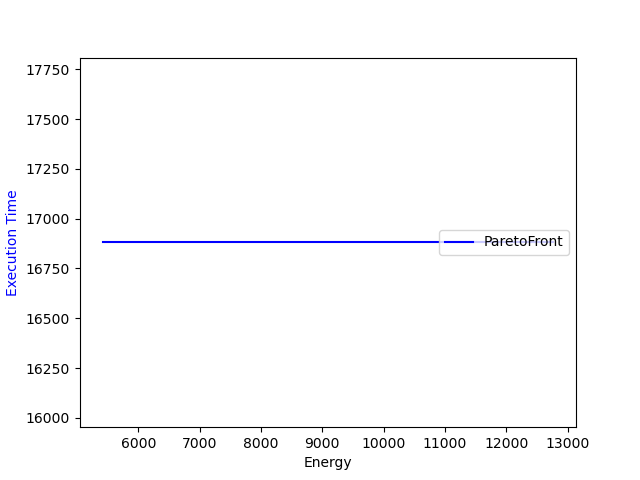
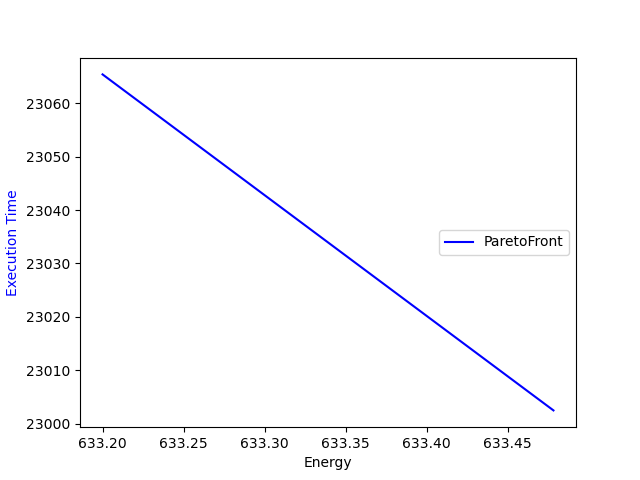
Messaging updated

diff --git a/with_dpll/complete.py b/with_dpll/complete.py
@@ -59,14 +59,16 @@ def process_block(block,tg,core):
 
 
     elif core in block[0] or "PROC" in block[0] or "CORE" in block[0]:
-        core_name = None
-        i = 0
-        core_name= block[0].strip('@').strip('{').replace(" ","")
-        #print(core_name)
-        scenario.all_tables[core_name]=Table(core_name,block[1].strip('#'),block[2].strip('#'),block[4].strip('#'))
-        for i in range(5, len(block)):
-            if not block[i].startswith('#'):
-                scenario.all_tables[core_name].add_row(block[i])
+        #  or " 6 " in block[0] or " 14 " in block[0]
+        if " 0 " in block[0] or " 3 " in block[0] :
+            core_name = None
+            i = 0
+            core_name= block[0].strip('@').strip('{').replace(" ","")
+            print(core_name)
+            scenario.all_tables[core_name]=Table(core_name,block[1].strip('#'),block[2].strip('#'),block[4].strip('#'))
+            for i in range(5, len(block)):
+                if not block[i].startswith('#'):
+                    scenario.all_tables[core_name].add_row(block[i])
     elif "HYPERPERIOD" in block[0]:
         scenario.hyperperiod= float(block[0].strip('@HYPERPERIOD '))
     elif "COMMUN_QUANT" in block[0]:
@@ -113,7 +115,7 @@ def populate_task_params():
                         #adding the PE to the pe_list of each task
                         scenario.graphs[graph].tasks[task].pe_list.append(table)
                         #adding the WCET on the PE for each task
-                        scenario.graphs[graph].tasks[task].wcet[table]=float(scenario.tables[table].values[type_of_task][3])*(1e5)
+                        scenario.graphs[graph].tasks[task].wcet[table]=float(scenario.tables[table].values[type_of_task][3])*(1e6)
                         #adding the task_power on the PE to the task arc_details
                         scenario.graphs[graph].tasks[task].power[table]=float(scenario.tables[table].values[type_of_task][6])
                         #adding code bits to the task details
@@ -129,24 +131,43 @@ def populate_task_params():
 
 def generate_noc(length,breadth):
     global scenario
-    # for temp in scenario.all_tables:
-    #     scenario.tables[temp]=scenario.all_tables[temp]
-    # for table in scenario.all_tables:
-    print("NOC Assignment is as follows\n")
-    for i in range(length):
-        l=[]
-        to_print=""
-        for j in range(breadth):
-            name=f"PE_{i}_{j}"
-            temp=random.sample(scenario.all_tables.keys(),1)
-            scenario.tables[name]=scenario.all_tables[temp[0]]
-            scenario.tables[name].name=temp[0]
-            to_print+=f"|{name} type = {temp[0]}|"
-            l.append(temp[0])
-        print(to_print)
-        scenario.NOC.append(l)
-    print("____________________________________________")
-
+    # Random Assignment of PEs
+    # print("NOC Assignment is as follows\n")
+    # for i in range(length):
+    #     l=[]
+    #     to_print=""
+    #     for j in range(breadth):
+    #         name=f"PE_{i}_{j}"
+    #         temp=random.sample(scenario.all_tables.keys(),1)
+    #         scenario.tables[name]=scenario.all_tables[temp[0]]
+    #         scenario.tables[name].name=temp[0]
+    #         to_print+=f"|{name} type = {temp[0]}|"
+    #         l.append(temp[0])
+    #     print(to_print)
+    #     scenario.NOC.append(l)
+    # print("____________________________________________")
+    isAssigned=False
+    i=0
+    j=0
+    while(isAssigned==False):
+        for core in scenario.all_tables:
+            if(i<length and j<breadth):
+                name=f"PE_{i}_{j}"
+                scenario.tables[name]=scenario.all_tables[core]
+                scenario.tables[name].name=core
+                print(core,"is assigned to",name)
+                i+=1
+            elif(j<(breadth-1)):
+                j+=1
+                i=0
+                name=f"PE_{i}_{j}"
+                scenario.tables[name]=scenario.all_tables[core]
+                scenario.tables[name].name=core
+                print(core,"is assigned to",name)
+                i+=1
+            else:
+                isAssigned=True
+                break
 
 def gen_comp_pb(con_graph,graph):
     global scenario
@@ -1348,7 +1369,13 @@ def evalParams(individual):
                 message_time=0.0
                 if cluster_to!=cluster:
                     mapped_to=individual.task_cluster[cluster_to].mapped_to
-                    message_list[m]=message_time
+                    tmp1=mapped.split("_")
+                    tmp2=mapped_to.split("_")
+                    x1=abs(int(tmp1[1])-int(tmp2[1]))
+                    y1=abs(int(tmp1[2])-int(tmp2[2]))
+                    hops=x1+y1
+                    message_time=hops*(scenario.graphs[graph].arcs[m].quant/80)+(hops-1)*(0.002)
+                    message_list[m]=hops
                 if task_start[task_to]<(task_start[task]+(scenario.graphs[graph].tasks[task].wcet[mapped]*dvfs_level)+message_time):
                     task_start[task_to]=(task_start[task]+(scenario.graphs[graph].tasks[task].wcet[mapped]*dvfs_level)+message_time)
 
@@ -1367,22 +1394,26 @@ def evalParams(individual):
             wcet=scenario.graphs[graph].tasks[task].wcet[mapped]
             power=scenario.graphs[graph].tasks[task].power[mapped]
             energy+=(wcet*power*dvfs_level*dvfs_level)
+    for m in message_list:
+        energy+=(message_list[m]*(0.07))
 
-    inc=0
-    print("\nEVALUATION FOR",graph,"\n")
-    for cluster in individual.task_cluster:
-        inc+=1
-        mapped=individual.task_cluster[cluster].mapped_to
-        print("Cluster",inc,"is Mapped to PE",mapped)
-        if scenario.dvfs>1:
-            print("DVFS Level is", (individual.dvfs_level[cluster]))
-        for task in individual.task_cluster[cluster].tasks:
-            print("------>",task)
-            print("start time",task_start[task])
-            print("end time",task_end[task])
-        print("----------------------------------")
-    print("The total execution time is",max_time,)
-    print("The total energy is",energy,"\n")
+    # inc=0
+    # print("\nEVALUATION FOR",graph,"\n")
+    # for cluster in individual.task_cluster:
+    #     inc+=1
+    #     mapped=individual.task_cluster[cluster].mapped_to
+    #     print("Cluster",inc,"is Mapped to PE",mapped)
+    #     if scenario.dvfs>1:
+    #         print("DVFS Level is", (individual.dvfs_level[cluster]))
+    #     for task in individual.task_cluster[cluster].tasks:
+    #         print("------>",task)
+    #         print("start time",task_start[task])
+    #         print("end time",task_end[task])
+    #     print("----------------------------------")
+    for m in message_list:
+        print(m,"has hop distance",message_list[m])
+    # print("The total execution time is",max_time,)
+    # print("The total energy is",energy,"\n")
     return (energy,max_time,)
 
 def matefunc(ind1,ind2):
@@ -1430,7 +1461,7 @@ toolbox.register("mate", matefunc)
 # flip each attribute/gene of 0.05
 toolbox.register("mutate",mutatefunc, indpb=0.05)
 #fittest of the individuals is selected for breeding..
-toolbox.register("select", tools.selNSGA2)
+toolbox.register("select", tools.selTournament)
 
 #intialising the statistics functions
 
@@ -1441,6 +1472,7 @@ stats.register("min", numpy.min, axis=0)
 stats.register("max", numpy.max, axis=0)
 
 def main():
+    total_start_time=time.time()
     parser = argparse.ArgumentParser()
     parser.add_argument("input_tgff", help="*.tgff file to parse")
     parser.add_argument("--tg", help="*name of task_graph",default="TASK_GRAPH")
@@ -1461,19 +1493,21 @@ def main():
     assign_priorities()
     populate_message_params()
     #generating the NOC
-    assignment_feasible=False
-    counter=0
-    while(assignment_feasible==False and counter<100):
-        generate_noc(2,2)
-        assignment_feasible=populate_task_params()
-        if(assignment_feasible==False):
-            print("Reassigning NOC")
-        counter+=1
-    if(assignment_feasible==False):
-        print("NOC needs to be more PE")
-        print("Tasks possibly cannot be scheduled")
-        print("!!!!!")
-        return
+    # assignment_feasible=False
+    # counter=0
+    # while(assignment_feasible==False and counter<100):
+    #     generate_noc(2,2)
+    #     assignment_feasible=populate_task_params()
+    #     if(assignment_feasible==False):
+    #         print("Reassigning NOC")
+    #     counter+=1
+    # if(assignment_feasible==False):
+    #     print("NOC needs to be more PE")
+    #     print("Tasks possibly cannot be scheduled")
+    #     print("!!!!!")
+    #     return
+    generate_noc(2,2)
+    populate_task_params()
     if args.dvfs_num_levels!=None:
         scenario.dvfs=args.dvfs_num_levels
     else:
@@ -1501,12 +1535,12 @@ def main():
         pop=None
         print(f"Generating Population for {graph}")
         start_time=time.time()
-        pop = toolbox.population(graph_name=graph,pop_size=10)
+        pop = toolbox.population(graph_name=graph,pop_size=100)
         # CXPB  is the probability with which two individuals
         #       are crossed
         #
         # MUTPB is the probability for mutating an individual
-        CXPB, MUTPB = 0.5, 0.2
+        CXPB, MUTPB = 0.2, 0.05
 
         print("Start of evolution", graph)
         # Evaluate the entire population
@@ -1522,16 +1556,16 @@ def main():
         #initialising the Logbook
         logbook = tools.Logbook()
         #initialising the ParetoFront
-        pf= tools.HallOfFame(maxsize=20)
+        pf= tools.HallOfFame(maxsize=100)
         # pf= tools.ParetoFront()
         # Begin the evolution
-        while g < 2:
+        while g < 300:
             # A new generation
             g = g + 1
             print("-- Generation %i --" % g)
 
             # Select the next generation individuals
-            offspring = toolbox.select(pop, len(pop))
+            offspring = toolbox.select(pop, len(pop),tournsize=10)
             # Clone the selected individuals
             offspring = list(map(toolbox.clone, offspring))
 
@@ -1577,7 +1611,7 @@ def main():
             mean = sum(fits0) / length
             sum2 = sum(x*x for x in fits0)
             std = abs(sum2 / length - mean**2)**0.5
-            print(" Values of Energy")
+            print(" Values of Energy in microwatt/second")
             print("   Min %s" % min(fits0))
             print("   Max %s" % max(fits0))
             print("   Avg %s" % mean)
@@ -1587,7 +1621,7 @@ def main():
             mean = sum(fits0) / length
             sum2 = sum(x*x for x in fits0)
             std = abs(sum2 / length - mean**2)**0.5
-            print(" Values of Execution time")
+            print(" Values of Execution time in microseconds")
             print("   Min %s" % min(fits0))
             print("   Max %s" % max(fits0))
             print("   Avg %s" % mean)
@@ -1666,7 +1700,9 @@ def main():
         #plot_constraint_graph(best_ind,graph,file_name,phase,dir)
         # print("Best individual is %s, %s" % (best_ind, best_ind.fitness.values))
         phase+=1
+    total_end_time=(time.time()-total_start_time)
     print("Discrete Constrainted Meta-Heuristic successful !!!")
+    print("Total DSE time is", total_end_time)
     return
 if __name__ == '__main__':
     main()

diff --git a/with_dpll/source.py b/with_dpll/source.py
@@ -61,11 +61,14 @@ class Graph:
         self.num_of_evals=0
 
     def add_task(self,task_details):
+        task_details=task_details.replace("_","")
+        #print(task_details)
         task_dets=task_details.split()
         self.num_of_tasks+=1
         self.tasks[task_dets[0]]=Task(task_dets[0],int(task_dets[2]))
         #create a new task with      :name       ,type          ,host
     def add_arc(self,arc_details):
+        arc_details=arc_details.replace("_","")
         arc_dets=arc_details.split()
         self.num_of_arcs+=1
         #IMP - ARCS are not unique in the benchmarks.
@@ -78,10 +81,12 @@ class Graph:
         self.tasks[arc_dets[4]].predecessor.append(arc_dets[2])
 
     def add_hard_deadline(self,deadline_details):
+        deadline_details=deadline_details.replace("_","")
         deadline_dets=deadline_details.split()
         self.tasks[deadline_dets[2]].hard_deadline=float(deadline_dets[4])
 
     def add_soft_deadline(self,deadline_details):
+        deadline_details=deadline_details.replace("_","")
         deadline_dets=deadline_details.split()
         self.tasks[deadline_dets[2]].soft_deadline=float(deadline_dets[4])
 
